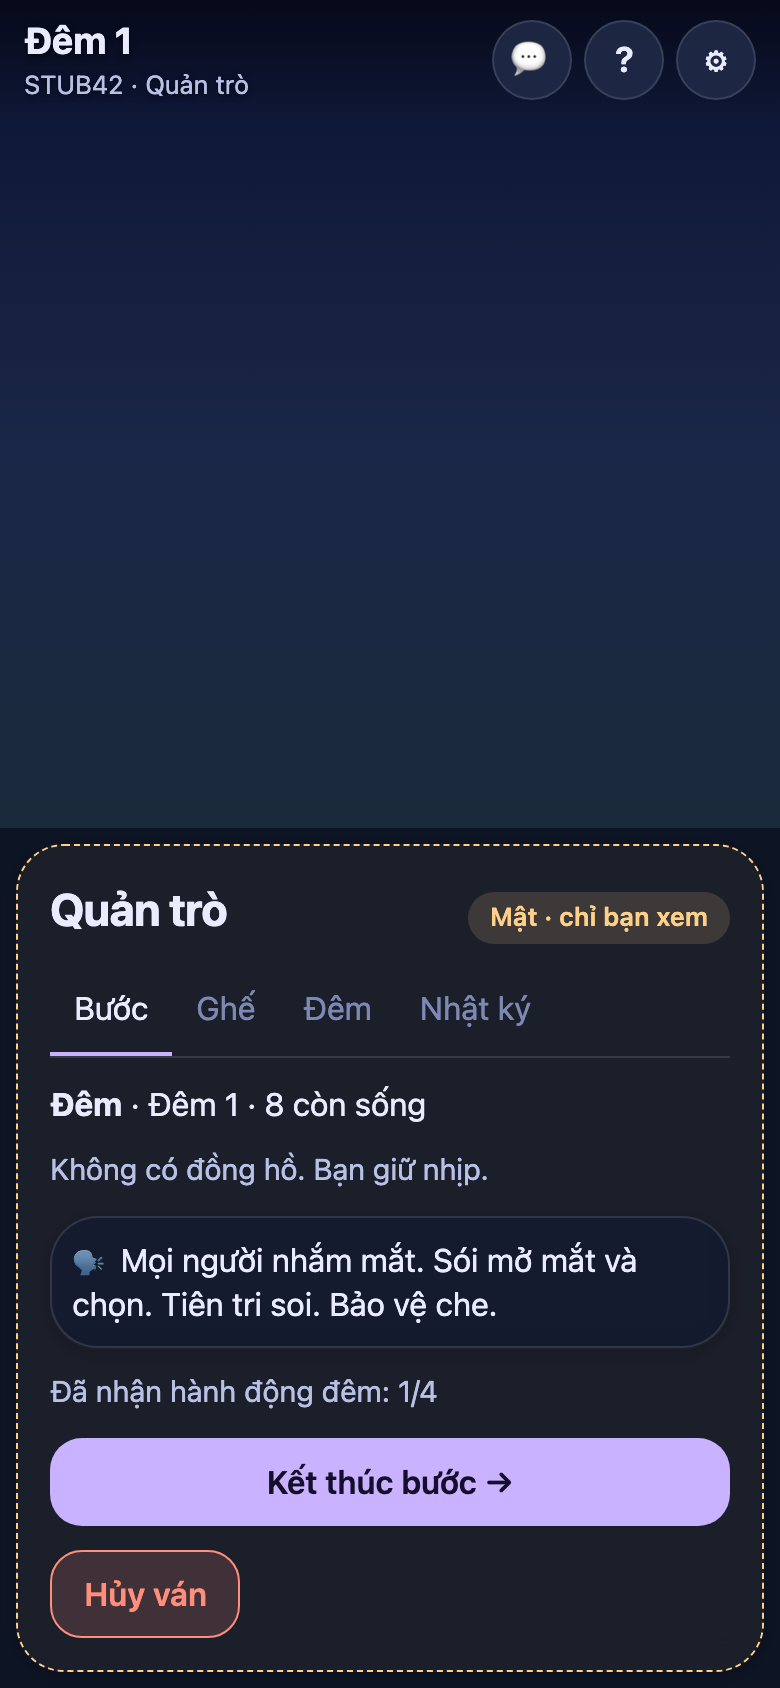
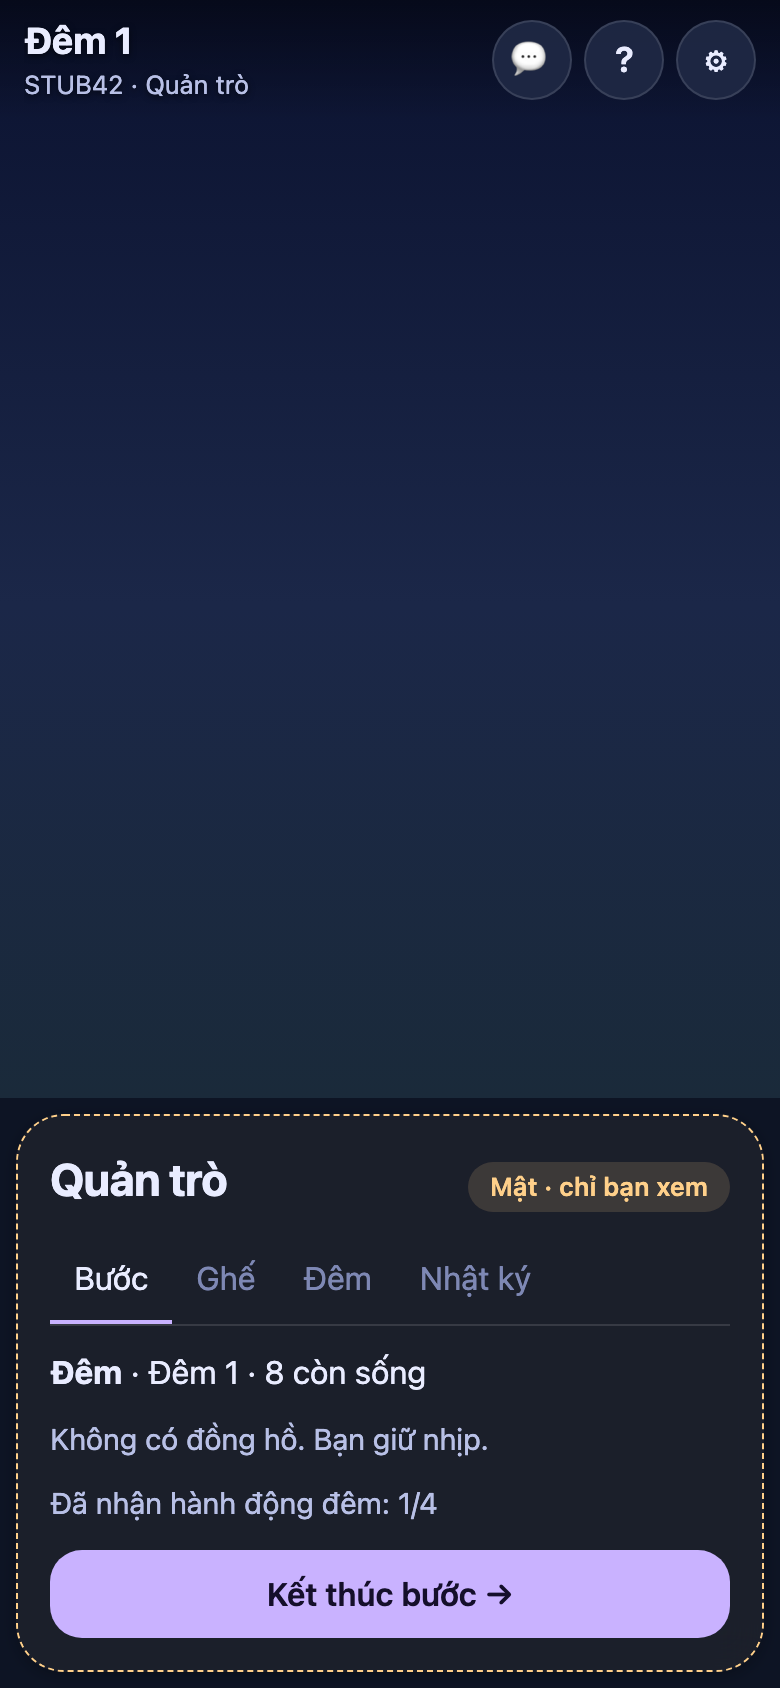
game-ui: align with foundation-3 protocol (act for moderator, say/chat/chatlog, engine id); hide unapproved moderator powers unless config enables them; provisional aids behind settings; docs

diff --git a/apps/web/src/ui/screens/Moderator.tsx b/apps/web/src/ui/screens/Moderator.tsx
@@ -2,6 +2,7 @@
 // players (pending). Controls: close step, Yes-count entry (in-person verdict), remove player, abort.
 // Secret state shown = whatever the moderator projection carries (roles, night record), minus ballots.
 import { useState } from 'react';
+import { useSettings } from '../../game/local-store.ts';
 import { mod } from '../../game/commands.ts';
 import { nameAt } from '../../game/select.ts';
 import type { GameView, SeatView } from '../../game/types.ts';
@@ -21,7 +22,12 @@ export function ModeratorConsole({ view, g }: { view: SeatView; g: GameView }) {
   const stepName = t.step(g.step.kind);
   const living = g.seats.filter((s) => s.alive).length;
   const [yes, setYes] = useState(0);
-  const sendMod = (action: Record<string, unknown>) => session.send({ t: 'moderate', action });
+  const sendMod = (action: Record<string, unknown>) => session.send({ t: 'act', action });
+  // PROVISIONAL powers (not approved): only if the engine config carries an enabling flag. No flag today → hidden.
+  const cfg = (m?.config as { moderator?: Record<string, unknown> } | undefined)?.moderator ?? {};
+  const canRemove = cfg['canRemove'] === true;
+  const canAbort = cfg['canAbort'] === true;
+  const narration = useSettings().modNarration;
   const ended = g.step.kind === 'ended';
   return (
     <section className="card panel rise-in mod-secret" data-testid="mod-console">
@@ -35,7 +41,7 @@ export function ModeratorConsole({ view, g }: { view: SeatView; g: GameView }) {
         <div className="stack">
           <p><strong data-testid="mod-step">{stepName}</strong> · {g.step.kind.startsWith('night') ? t('phaseNight', { n: g.night }) : t('phaseDiscuss', { d: g.day }).split(' ·')[0]} · {t('livingCount', { n: living })}</p>
           <p className="hint">{view.phaseEndsAt === null ? t('modNoTimer') : ''}</p>
-          <p className="card" style={{ padding: 10 }} data-testid="mod-say">🗣 {narration(t, g, view)}</p>
+          {narration && <p className="card" style={{ padding: 10 }} data-testid="mod-say">🗣 {narrate(t, g, view)} <span className="pill warn">{t('provisional')}</span></p>}
           {m?.nightRec && g.step.kind.startsWith('night') && <p className="hint">{t('modSubmitted', { n: submittedCount(g), total: expectedCount(g) })}</p>}
           {g.step.kind === 'hunter' && <p className="hint">{t('hunterOthers', { name: g.step.pending.map((p) => nameAt(view, g, p)).join(', ') })}</p>}
           {g.step.kind === 'day.confirm' && (
@@ -51,20 +57,20 @@ export function ModeratorConsole({ view, g }: { view: SeatView; g: GameView }) {
           )}
           {(g.step.kind === 'day.vote') && <p className="muted">{t('modNoBallots')}</p>}
           <Button wide testId="close-step" disabled={ended} onClick={() => setAsk({ text: t('modCloseConfirm', { step: stepName }), yes: t('modCloseStep'), run: () => sendMod(mod.closeStep()) })}>{t('modCloseStep')} →</Button>
-          <Button kind="danger" testId="abort" disabled={ended} onClick={() => setAsk({ text: t('modAbortConfirm'), yes: t('modAbort'), danger: true, run: () => sendMod(mod.abort()) })}>{t('modAbort')}</Button>
+          {canAbort && <Button kind="danger" testId="abort" disabled={ended} onClick={() => setAsk({ text: t('modAbortConfirm'), yes: t('modAbort'), danger: true, run: () => sendMod(mod.abort()) })}>{t('modAbort')}</Button>}
         </div>
       )}
 
       {tab === 'seats' && (
         <div className="stack">
           <SeatGrid view={view} g={g} testPrefix="mod-seat" roles="all" />
-          <div className="row wrap">
+          {canRemove && <div className="row wrap">
             {g.seats.filter((s) => s.alive).map((s) => (
               <Button key={s.seat} kind="quiet" disabled={ended} onClick={() => setAsk({ text: t('modRemoveConfirm', { name: nameAt(view, g, s.seat) }), yes: t('modRemove'), danger: true, run: () => sendMod(mod.remove(s.seat)) })}>
                 {t('modRemove')}: {nameAt(view, g, s.seat)}
               </Button>
             ))}
-          </div>
+          </div>}
         </div>
       )}
 
@@ -92,7 +98,7 @@ export function ModeratorConsole({ view, g }: { view: SeatView; g: GameView }) {
   );
 }
 
-function narration(t: ReturnType<typeof useT>, g: GameView, view: SeatView): string {
+function narrate(t: ReturnType<typeof useT>, g: GameView, view: SeatView): string {
   const s = g.step;
   switch (s.kind) {
     case 'night.main': return t('sayNightMain');

diff --git a/apps/web/src/game/stub/local-room.ts b/apps/web/src/game/stub/local-room.ts
@@ -4,7 +4,7 @@
 import type { Mode, Profile, PublicSeat, SeatId, SeatView, VoiceGrant } from '@moonveil/protocol';
 import { type Command, type HostState, type RulesEngine, createRulesEngine } from '@moonveil/rules';
 import { type ConnStatus, type OutMessage, type Session, type SessionState, emptySession } from '../session.ts';
-import type { ChannelId, ChatMessage } from '../types.ts';
+import type { ChannelId, ChatEntry } from '../types.ts';
 import { pickBotAction } from './bots.ts';
 
 export interface StubSeat {
@@ -46,7 +46,7 @@ export class LocalRoom implements Session {
   speed: number;
   autoBots: boolean;
   voiceMode: 'remote' | 'inPerson';
-  chat: ChatMessage[] = [];
+  chat: ChatEntry[] = [];
   speaking: SeatId[] = [];
   error: SessionState['error'] = null;
   private seed: string;
@@ -137,41 +137,25 @@ export class LocalRoom implements Session {
           this.start();
           break;
         case 'act': {
-          if (!this.game || me.kind !== 'player') throw new Error('no game');
-          const r = this.engine.submit(this.game, me.id, msg.action);
+          if (!this.game) throw new Error('no game');
+          const r = me.kind === 'moderator' ? this.engine.moderate(this.game, msg.action) : this.engine.submit(this.game, me.id, msg.action);
           if (!r.ok) {
             this.error = { code: 'invalid-action', message: r.error };
             break;
           }
           this.game = r.state;
-          this.afterChange();
+          if (me.kind === 'moderator') this.enterPhase();
+          else this.afterChange();
           break;
         }
         case 'advance':
           if (me.kind !== 'moderator') throw new Error('moderator only');
           this.advance();
           break;
-        case 'moderate': {
-          if (!this.game || me.kind !== 'moderator') throw new Error('moderator only');
-          const r = this.engine.moderate(this.game, msg.action);
-          if (!r.ok) {
-            this.error = { code: 'invalid-action', message: r.error };
-            break;
-          }
-          this.game = r.state;
-          this.enterPhase();
-          break;
-        }
-        case 'chat': {
+        case 'say': {
           const grants = this.grantsFor(me);
           if (!grants.some((g) => g.channel === msg.channel && g.speak)) throw new Error('cannot speak here');
-          this.chat.push({
-            id: `c${this.chat.length + 1}`,
-            channel: msg.channel,
-            from: { seat: me.kind === 'player' ? me.id : null, name: me.name },
-            text: msg.text.slice(0, 500),
-            at: Date.now(),
-          });
+          this.chat.push({ channel: msg.channel as ChannelId, msg: { id: Math.random().toString(36).slice(2), from: me.id, text: String(msg.text).slice(0, 280), at: Date.now() } });
           break;
         }
         case 'leave':
@@ -310,6 +294,7 @@ export class LocalRoom implements Session {
     const grants = this.grantsFor(me);
     const view: SeatView = {
       code: this.code,
+      engine: this.engine.id,
       mode: this.mode,
       status: this.status,
       me: { seat: me.id, kind: me.kind, host: me.id === this.hostId },

diff --git a/apps/web/src/ui/screens/Night.tsx b/apps/web/src/ui/screens/Night.tsx
@@ -7,7 +7,7 @@ const isInspect = (f: Fact): f is Extract<Fact, { k: 'inspect' }> => f.k === 'in
 const isVictim = (f: Fact): f is Extract<Fact, { k: 'victim' }> => f.k === 'victim';
 import { useEffect, useState } from 'react';
 import { act } from '../../game/commands.ts';
-import { type Note, notesStore, useNotes } from '../../game/local-store.ts';
+import { type Note, notesStore, useNotes, useSettings } from '../../game/local-store.ts';
 import { action, nameAt } from '../../game/select.ts';
 import type { GameView, SeatView } from '../../game/types.ts';
 import { Button, Timer } from '../components/index.tsx';
@@ -192,17 +192,18 @@ export function NotePanel({ view, g, title }: PanelProps & { title: string }) {
   for (const [k, v] of Object.entries(notes)) tags[Number(k)] = { text: v === 'suspect' ? '🔍' : '🤝', accent: v === 'suspect' };
   const set = (n: Note | null) => sel !== null && notesStore.set(sel, n);
   const dead = g.me && !g.me.alive;
+  const notesOn = useSettings().nightNotes && !dead; // PROVISIONAL (product question): off = plain waiting panel, same frame
   return (
-    <Frame view={view} testId="night-note" title={title} task={dead ? t('nightWait') : t('nightNoteTask')} info={<span className="muted" style={{ fontSize: 'var(--fs-0)' }}>{t('nightNoteHint')}</span>}
-      status={sel === null ? t('nightWait') : t('nightSelected', { name: nameAt(view, g, sel) })}
+    <Frame view={view} testId="night-note" title={title} task={notesOn ? t('nightNoteTask') : t('nightWait')} info={<span className="muted" style={{ fontSize: 'var(--fs-0)' }}>{notesOn ? t('nightNoteHint') : ''}</span>}
+      status={notesOn && sel !== null ? t('nightSelected', { name: nameAt(view, g, sel) }) : t('nightWait')}
       buttons={
         <>
-          <Button kind="quiet" disabled={sel === null} onClick={() => set(notes[sel!] === 'trust' ? null : 'trust')}>{t('noteTrust')}</Button>
-          <Button testId="confirm" disabled={sel === null} onClick={() => set(notes[sel!] === 'suspect' ? null : 'suspect')}>{t('noteSuspect')}</Button>
+          <Button kind="quiet" disabled={!notesOn || sel === null} onClick={() => set(notes[sel!] === 'trust' ? null : 'trust')}>{notesOn ? t('noteTrust') : ' '}</Button>
+          <Button testId="confirm" disabled={!notesOn || sel === null} onClick={() => set(notes[sel!] === 'suspect' ? null : 'suspect')}>{notesOn ? t('noteSuspect') : ' '}</Button>
         </>
       }
     >
-      <SeatGrid view={view} g={g} selected={sel} onSelect={setSel} tags={tags} showDead={false} />
+      <SeatGrid view={view} g={g} selected={notesOn ? sel : null} onSelect={notesOn ? setSel : undefined} tags={notesOn ? tags : undefined} showDead={false} />
     </Frame>
   );
 }

diff --git a/apps/web/src/game/stub/scenarios.ts b/apps/web/src/game/stub/scenarios.ts
@@ -46,8 +46,8 @@ export function scenario(name: ScenarioName, opts: { speed?: number; autoBots?: 
   if (name === 'lobby') {
     room.players.forEach((p, i) => (p.ready = i % 3 !== 2));
     room.players[1]!.connected = false;
-    room.chat.push({ id: 'c1', channel: 'public', from: { seat: room.players[2]!.id, name: 'Chi' }, text: 'Mọi người bật mic chưa?', at: Date.now() - 60_000 });
-    room.chat.push({ id: 'c2', channel: 'public', from: { seat: room.players[0]!.id, name: 'An' }, text: 'Ready when you are ✌', at: Date.now() - 30_000 });
+    room.chat.push({ channel: 'public', msg: { id: 'c1', from: room.players[2]!.id, text: 'Mọi người bật mic chưa?', at: Date.now() - 60_000 } });
+    room.chat.push({ channel: 'public', msg: { id: 'c2', from: room.players[0]!.id, text: 'Ready when you are ✌', at: Date.now() - 30_000 } });
     return room;
   }
   room.start();
@@ -108,13 +108,13 @@ export function scenario(name: ScenarioName, opts: { speed?: number; autoBots?: 
   witchPass();
   const dead = g().match.seats.find((s) => !s.alive)!.seat;
   if (name === 'day' || name === 'moderator-day') {
-    room.chat.push({ id: 'c1', channel: 'public', from: { seat: idOf(alive()[1]!), name: 'Bình' }, text: 'Đêm qua yên tĩnh quá… ai có thông tin không?', at: Date.now() - 20_000 });
+    room.chat.push({ channel: 'public', msg: { id: 'c1', from: idOf(alive()[1]!), text: 'Đêm qua yên tĩnh quá… ai có thông tin không?', at: Date.now() - 20_000 } });
     room.setViewer(name === 'moderator-day' ? room.moderator!.id : idOf(alive()[0]!));
     room.setSpeaking([idOf(alive()[2]!)]);
     return room;
   }
   if (name === 'ghost') {
-    room.chat.push({ id: 'c1', channel: 'ghosts', from: { seat: idOf(dead), name: 'Ghost' }, text: '…', at: Date.now() - 5000 });
+    room.chat.push({ channel: 'ghosts', msg: { id: 'c1', from: idOf(dead), text: '…', at: Date.now() - 5000 } });
     view(dead);
     return room;
   }

diff --git a/apps/web/src/ui/screens/Panels.tsx b/apps/web/src/ui/screens/Panels.tsx
@@ -2,7 +2,7 @@
 import type { Role } from '@moonveil/rules';
 import { useEffect, useRef, useState } from 'react';
 import type { ConnStatus, SessionState } from '../../game/session.ts';
-import { canListen, canSpeak, nameAt, playerAt, rolesInPlay } from '../../game/select.ts';
+import { canListen, canSpeak, nameAt, nameOf, playerAt, rolesInPlay } from '../../game/select.ts';
 import type { ChannelId, GameView, SeatView } from '../../game/types.ts';
 import { Avatar, Button, Sheet, Tabs } from '../components/index.tsx';
 import { SeatGrid } from '../components/SeatGrid.tsx';
@@ -191,7 +191,7 @@ export function ChatSheet({ s, view, onClose }: { s: SessionState; view: SeatVie
   const submit = () => {
     const v = text.trim();
     if (!v || !speak) return;
-    session.send({ t: 'chat', channel: active, text: v });
+    session.send({ t: 'say', channel: active, text: v });
     setText('');
   };
   return (
@@ -200,9 +200,9 @@ export function ChatSheet({ s, view, onClose }: { s: SessionState; view: SeatVie
         {channels.length > 1 && <Tabs tabs={channels.map((c) => ({ key: c, label: t(CHANNEL_LABEL[c]) }))} value={active} onChange={setTab} />}
         <div className="chat-log" ref={log} data-testid="chat-log" data-channel={active}>
           {msgs.length === 0 && <p className="muted">{t('chatNone')}</p>}
-          {msgs.map((m) => (
-            <div key={m.id} className={`chat-msg ${m.from.seat === view.me.seat ? 'mine' : ''}`}>
-              <span className="from">{m.from.name}</span> {m.text}
+          {msgs.map(({ msg: m }) => (
+            <div key={m.id} className={`chat-msg ${m.from === view.me.seat ? 'mine' : ''}`}>
+              <span className="from">{nameOf(view, m.from)}</span> {m.text}
             </div>
           ))}
         </div>

diff --git a/apps/web/src/game/session.ts b/apps/web/src/game/session.ts
@@ -2,24 +2,21 @@
 // (./stub) implements the same surface in-browser. Keeping the UI on this interface means screens never
 // know whether a socket or a stub is behind them.
 import type { ClientMessageInput, ErrorCode, Mode, Profile, SeatId, SeatView } from '@moonveil/protocol';
-import type { ChannelId, ChatMessage } from './types.ts';
+import type { ChatEntry } from './types.ts';
 
 export type ConnStatus = 'idle' | 'connecting' | 'open' | 'reconnecting' | 'replaced' | 'ended';
 
-/** PROPOSED additions to ClientMessage (docs/ui/PROPOSALS.md P1, P2). */
-export type ProposedMessage =
-  | { t: 'moderate'; ref?: string; action: unknown }
-  | { t: 'chat'; ref?: string; channel: ChannelId; text: string };
-export type OutMessage = ClientMessageInput | ProposedMessage;
+/** Wire messages (foundation-3 protocol): moderator commands travel as `act`; chat is `say`. */
+export type OutMessage = ClientMessageInput;
 
 export interface SessionState {
   status: ConnStatus;
   code: string | null;
   view: SeatView | null;
   error: { code: ErrorCode | 'network' | string; message: string } | null;
-  /** Grant-filtered chat history + live messages (proposal P2). Empty until the server supports it. */
-  chat: ChatMessage[];
-  /** Seats currently speaking on channels this seat may listen to (proposal P4). */
+  /** Chat per channel, as delivered by `chatlog` (replaces) + `chat` (appends). Only channels with a listen grant. */
+  chat: ChatEntry[];
+  /** Seats currently speaking on channels this seat may listen to (`speaking` frame). */
   speaking: SeatId[];
   /** Room voice setting (proposal P3): 'remote' = in-game voice, 'inPerson' = voice off, text only. */
   voiceMode: 'remote' | 'inPerson';

diff --git a/apps/web/src/game/types.ts b/apps/web/src/game/types.ts
@@ -1,21 +1,19 @@
 // Types the UI renders from. `GameView` is the rules projection the server puts in `SeatView.game`.
 // The UI reads ONLY what the projection gives this seat; nothing secret is inferred or cached here.
 import type { HostView } from '@moonveil/rules';
-import type { SeatId, SeatView } from '@moonveil/protocol';
+import type { ChatMessage as ProtoChat, SeatId, SeatView } from '@moonveil/protocol';
 
 export type GameView = HostView;
 export type { SeatView, SeatId };
 
 export type ChannelId = 'public' | 'wolves' | 'ghosts';
 
-/** PROPOSED server->client chat frame (docs/ui/PROPOSALS.md P2). Delivered only to seats whose grant has listen. */
-export interface ChatMessage {
-  id: string;
+/** Protocol ChatMessage + its channel (server sends `chat`/`chatlog` only for channels this seat may listen to). */
+export interface ChatEntry {
   channel: ChannelId;
-  from: { seat: SeatId | null; name: string }; // seat null = moderator or system
-  text: string;
-  at: number; // server epoch ms
+  msg: ProtoChat;
 }
+export type { ProtoChat as ChatMessage };
 
 export type StepFamily = 'night' | 'hunter' | 'day' | 'ended';
 

diff --git a/apps/web/src/ui/i18n/vi.ts b/apps/web/src/ui/i18n/vi.ts
@@ -99,6 +99,7 @@ export const vi: Strings = {
   annNight: 'Đêm xuống', annDawn: 'Bình minh', annVote: 'Mở đề cử', annDefense: 'Biện hộ', annConfirm: 'Phán quyết', annYourTurn: 'Đến lượt bạn', annOver: 'Kết thúc',
   annDied: '{name} đã chết', annExecuted: '{name} bị treo cổ', annShot: '{by} bắn {target}', annHunter: '{name} là Thợ săn',
 
+  provisional: 'tạm thời', modNarrationSetting: 'Gợi ý lời dẫn (tạm thời)', nightNotesSetting: 'Ghi chú nghi ngờ ban đêm (tạm thời)',
   a11yTimer: 'còn {s} giây', a11ySeat: '{name}, {state}', a11yDead: 'đã chết', a11yAlive: 'còn sống', a11ySpeaking: 'đang nói', a11yYou: 'bạn', a11yTarget: 'chọn {name}',
   stepDisplay: { 'night.main': 'Đêm', 'night.witch': 'Phù thủy', hunter: 'Thợ săn', 'day.discussion': 'Thảo luận', 'day.vote': 'Đề cử', 'day.defense': 'Biện hộ', 'day.confirm': 'Phán quyết', ended: 'Kết thúc' },
 };

diff --git a/apps/web/src/game/select.ts b/apps/web/src/game/select.ts
@@ -1,11 +1,15 @@
 // Pure selectors over SeatView + rules projection. No caching, no inference beyond what the view states.
-import type { PublicSeat, SeatView, VoiceGrant } from '@moonveil/protocol';
+import { type PublicSeat, type SeatId, type SeatView, type VoiceGrant, gameView } from '@moonveil/protocol';
 import type { AvailableAction, Role, Seat } from '@moonveil/rules';
 import type { GameView } from './types.ts';
 
 export function projection(view: SeatView | null): GameView | null {
-  const g = view?.game as GameView | null | undefined;
-  return g && typeof g === 'object' && 'step' in g && 'seatIds' in g ? g : null;
+  return view ? gameView(view) : null;
+}
+
+/** Display name for a seat id: player, or the moderator. */
+export function nameOf(view: SeatView, id: SeatId): string {
+  return view.players.find((p) => p.seat === id)?.name ?? view.moderator?.name ?? id;
 }
 
 /** Player record for engine seat index i. */

diff --git a/apps/web/src/game/commands.ts b/apps/web/src/game/commands.ts
@@ -13,11 +13,12 @@ export const act = {
   hunterShoot: (target: Seat | 'pass') => ({ type: 'hunter.shoot', target }),
 };
 
-/** Moderator commands (engine `moderate`). Sent as `{ t: 'moderate', action }` (proposal P1). */
+/** Moderator commands (engine `moderate`). Sent as `{ t: 'act', action }` from the moderator seat (foundation-3). */
 export const mod = {
   forSeat: (seat: Seat, a: Record<string, unknown>) => ({ ...a, seat }),
   wolfDecide: (target: Seat | 'pass') => ({ type: 'wolf.decide', target }),
   closeStep: () => ({ type: 'step.close' }),
+  /** PROVISIONAL (not approved): shown only when the engine config enables them (see Moderator.tsx). */
   remove: (seat: Seat) => ({ type: 'player.remove', seat }),
   abort: () => ({ type: 'match.abort' }),
   /** APPROVED Q16 (2026-10-16): the moderator enters the Yes count of a show of hands; the engine applies Yes*2 > living. */

diff --git a/apps/web/src/ui/i18n/en.ts b/apps/web/src/ui/i18n/en.ts
@@ -98,6 +98,7 @@ export const en = {
   annNight: 'Night falls', annDawn: 'Dawn', annVote: 'Nomination open', annDefense: 'Defense', annConfirm: 'Verdict', annYourTurn: 'Your turn', annOver: 'Match over',
   annDied: '{name} died', annExecuted: '{name} executed', annShot: '{by} shot {target}', annHunter: '{name} is the Hunter',
 
+  provisional: 'provisional', modNarrationSetting: 'Narration cues (provisional)', nightNotesSetting: 'Private suspect notes at night (provisional)',
   a11yTimer: '{s} seconds left', a11ySeat: '{name}, {state}', a11yDead: 'dead', a11yAlive: 'alive', a11ySpeaking: 'speaking', a11yYou: 'you', a11yTarget: 'choose {name}',
   stepDisplay: { 'night.main': 'Night', 'night.witch': 'Witch', hunter: 'Hunter', 'day.discussion': 'Discussion', 'day.vote': 'Nomination', 'day.defense': 'Defense', 'day.confirm': 'Verdict', ended: 'Ended' } as Record<string, string>,
 };

diff --git a/apps/web/src/game/local-store.ts b/apps/web/src/game/local-store.ts
@@ -7,6 +7,9 @@ export interface Settings {
   lang: Lang;
   sound: boolean;
   reducedMotion: 'system' | 'on' | 'off';
+  /** PROVISIONAL aids pending Human decisions (kept behind settings, default off). */
+  modNarration: boolean;
+  nightNotes: boolean;
 }
 
 const SETTINGS_KEY = 'moonveil.ui.settings';
@@ -26,7 +29,7 @@ function read<T>(key: string, fallback: T): T {
   }
 }
 
-let settings: Settings = read<Settings>(SETTINGS_KEY, { lang: detectLang(), sound: true, reducedMotion: 'system' });
+let settings: Settings = read<Settings>(SETTINGS_KEY, { lang: detectLang(), sound: true, reducedMotion: 'system', modNarration: false, nightNotes: true });
 const listeners = new Set<() => void>();
 const emit = () => listeners.forEach((fn) => fn());
 
